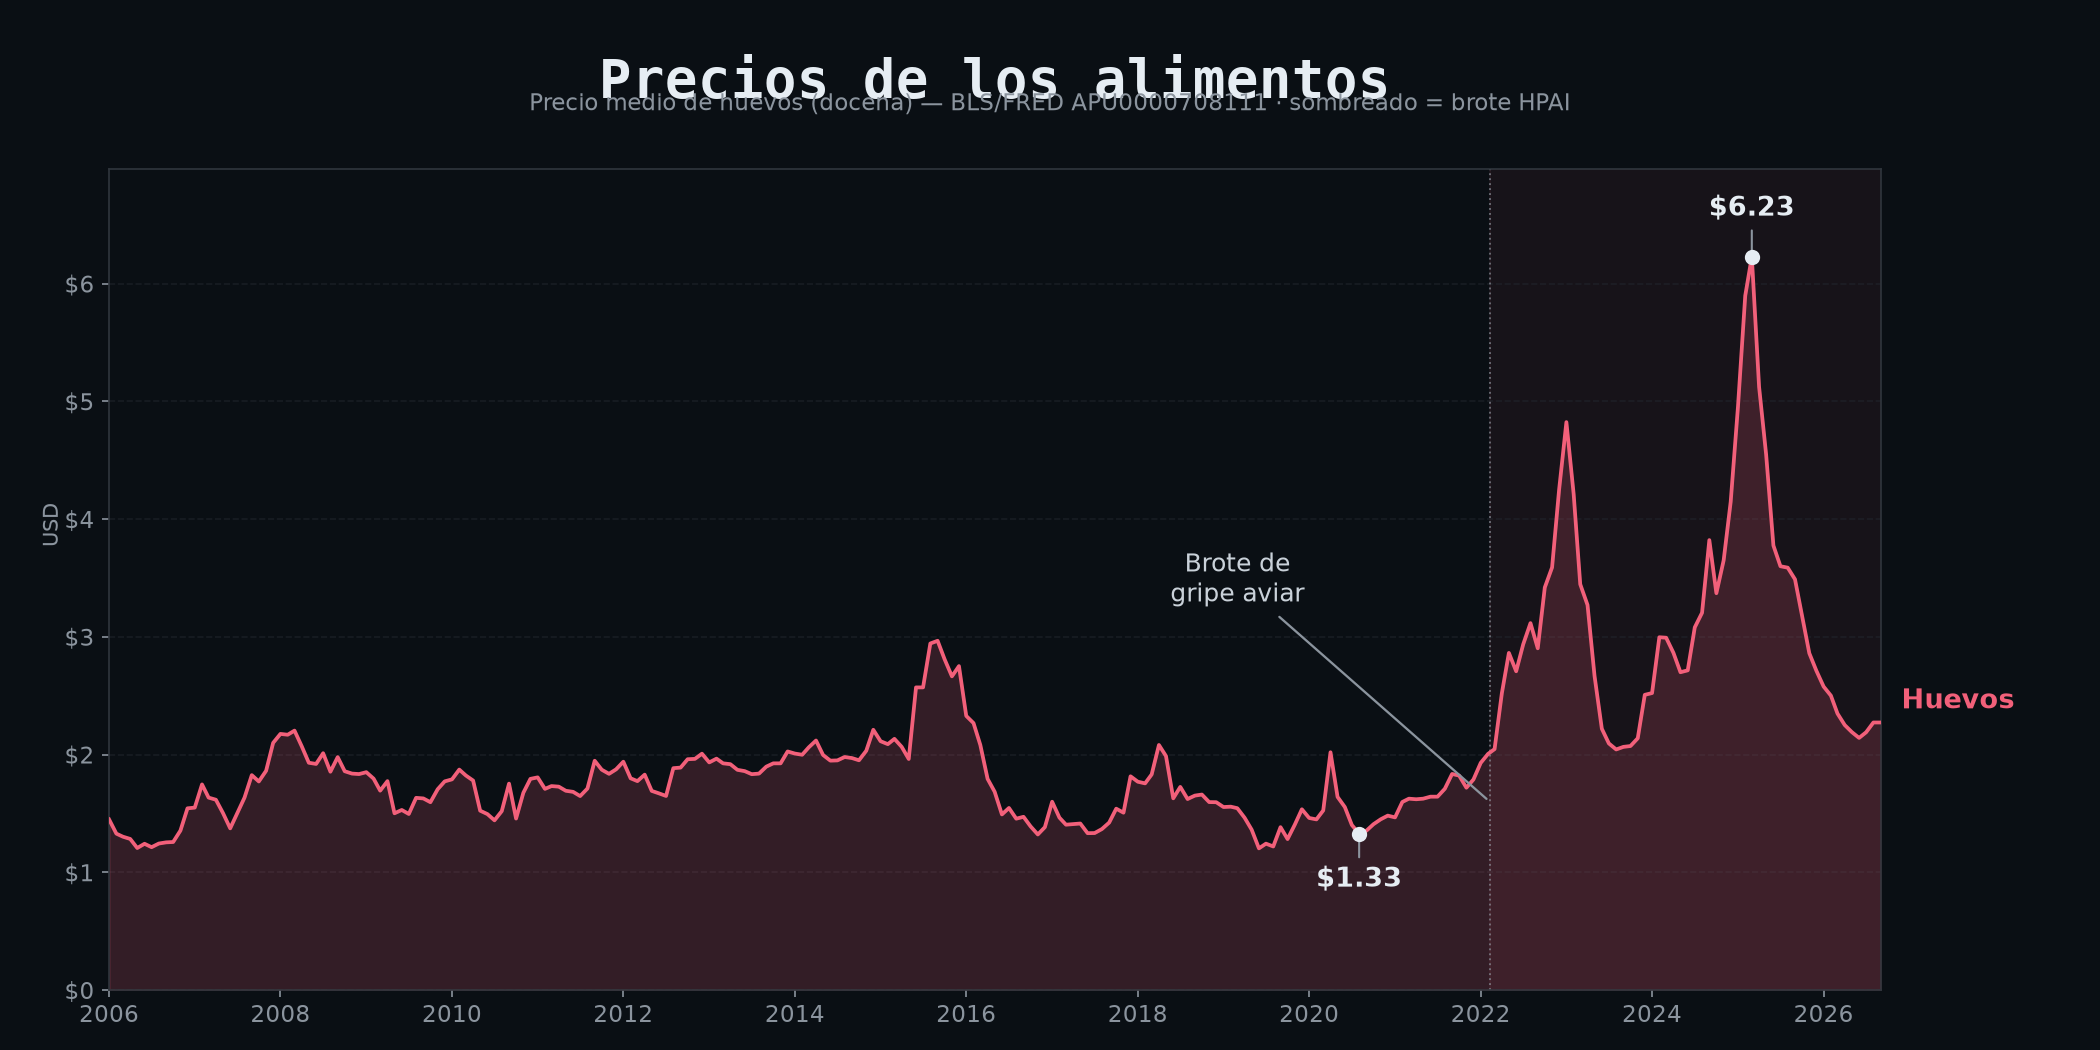
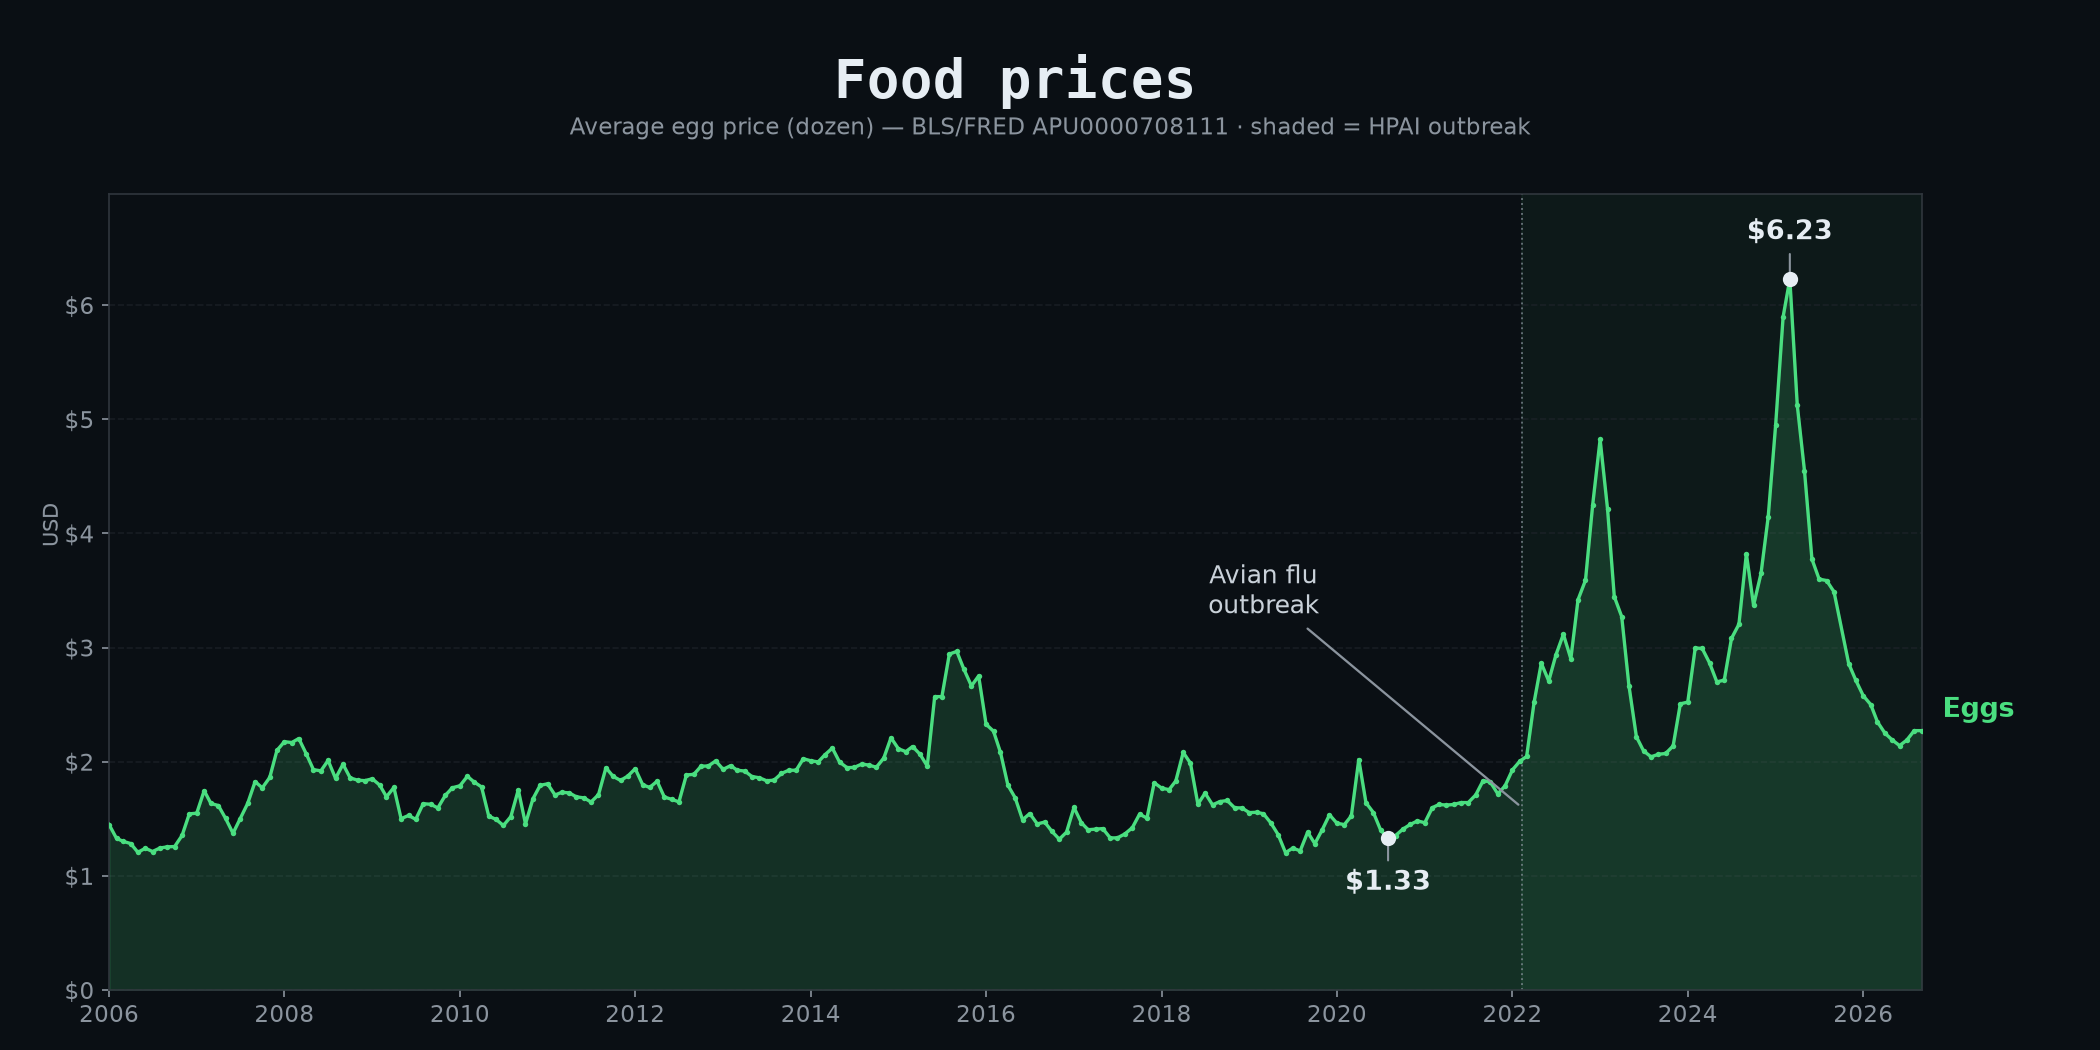
egg_prices: green point-marked line, English labels, spaced header
Generated with [Devin](https://devin.ai)

diff --git a/pipeline/egg_prices.py b/pipeline/egg_prices.py
@@ -36,13 +36,14 @@ def main() -> None:
     fig.patch.set_facecolor("#0a0f14")
     ax.set_facecolor("#0a0f14")
 
-    ax.plot(df.observation_date, df.price, color="#f2607a", lw=1.8, zorder=3)
+    ax.plot(df.observation_date, df.price, color="#4ade80", lw=1.6,
+            marker="o", ms=2.6, mfc="#4ade80", mec="none", zorder=3)
     ax.fill_between(df.observation_date, df.price, 0,
-                    color="#f2607a", alpha=0.18, zorder=2)
+                    color="#4ade80", alpha=0.16, zorder=2)
     ax.axvspan(pd.Timestamp(OUTBREAK), df.observation_date.max(),
-               color="#f2607a", alpha=0.06, zorder=1)
+               color="#4ade80", alpha=0.05, zorder=1)
 
-    ax.annotate("Brote de\ngripe aviar",
+    ax.annotate("Avian flu\noutbreak",
                 xy=(pd.Timestamp(OUTBREAK), 1.6), xytext=(
                     pd.Timestamp("2019-03-01"), 3.3),
                 color="#c9d1d9", fontsize=12, ha="center",
@@ -61,10 +62,10 @@ def main() -> None:
                     fontweight="bold",
                     arrowprops=dict(arrowstyle="-", color="#8b949e"))
 
-    ax.annotate("Huevos", xy=(df.observation_date.iloc[-1],
+    ax.annotate("Eggs", xy=(df.observation_date.iloc[-1],
                               df.price.iloc[-1] + 0.12),
                 xytext=(10, 0), textcoords="offset points",
-                color="#f2607a", fontsize=13, fontweight="bold")
+                color="#4ade80", fontsize=13, fontweight="bold")
 
     ax.set_xlim(df.observation_date.min(), df.observation_date.max())
     ax.set_ylim(0, df.price.max() * 1.12)
@@ -75,11 +76,11 @@ def main() -> None:
         s.set_color("#30363d")
     ax.tick_params(colors="#8b949e", labelsize=11)
     ax.grid(axis="y", color="#21262d", ls="--", alpha=0.6)
-    ax.set_title("Precios de los alimentos", color="#e6edf3",
-                 fontsize=26, fontweight="bold", pad=34, loc="center",
+    ax.set_title("Food prices", color="#e6edf3",
+                 fontsize=26, fontweight="bold", pad=46, loc="center",
                  fontfamily="monospace")
-    fig.text(0.5, 0.895, "Precio medio de huevos (docena) — BLS/FRED "
-             "APU0000708111 · sombreado = brote HPAI",
+    fig.text(0.5, 0.872, "Average egg price (dozen) — BLS/FRED "
+             "APU0000708111 · shaded = HPAI outbreak",
              color="#8b949e", fontsize=11, ha="center")
     fig.text(0.02, 0.5, "USD", color="#8b949e", fontsize=10,
              rotation=90, va="center")
